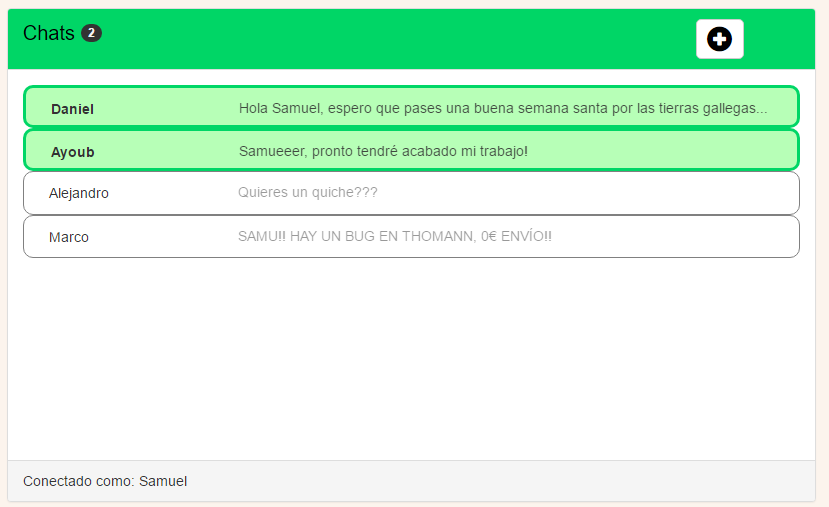
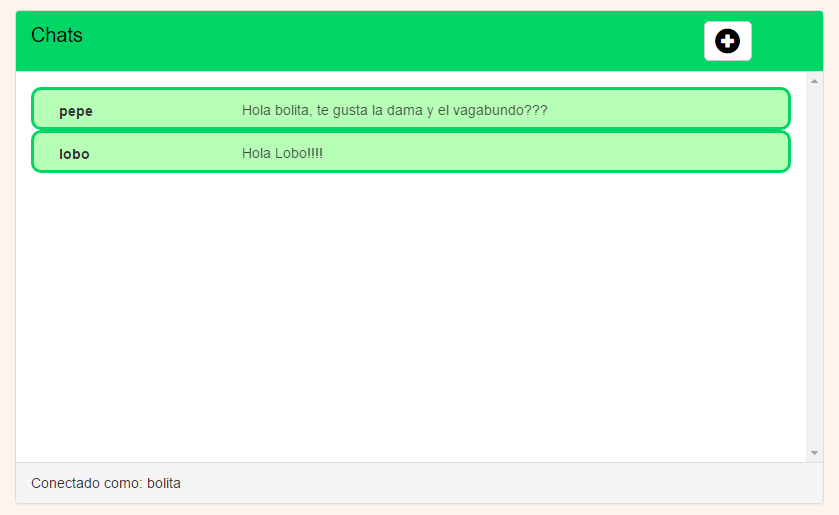
Tour actualizado y bbdd
algunos usuarios mas

diff --git a/public/tour.html b/public/tour.html
@@ -49,9 +49,9 @@
     <img class="img-responsive center-block tourindex" src="img/tour/index.png" alt="Generic placeholder image">
 
     <div class="acercatext">
-      <p class="acercap">Una vez logeados o dados de alta, nos encontramos en la página de nuestro perfil, donde podemos actualizar nuestro perfil. Mediante el navegador podremos desplazarnos a:</p>
+      <p class="acercap">Una vez logeados o dados de alta, nos encontramos en la página de nuestro perfil, te pedimos que subas una foto tuya y rellenes todos los datos de tu perfil. </p>
+      <p class="acercap">Mediante el navegador podremos desplazarnos a:</p>
       <p class="acercap"><strong>Huella</strong>, descubre los nuevos pretendientes en la pagina de MATCHES. </p>
-      <p class="acercap"><strong>Fotos y Videos</strong>, donde podras ver el contenido que has publicado.</p>
       <p class="acercap"><strong>Chats</strong>, habla mediante chats con tus pretendientes.</p>
       <p class="acercap"><strong>Perfil</strong>, accede a la información de tu cuenta.</p>
       <p class="acercap">Pulsa el botón <strong>Cerrar Sesión</strong> para salir de tu cuenta.</p>
@@ -60,6 +60,7 @@
     <img class="img-responsive center-block tourindex" src="img/tour/nav.png" alt="Generic placeholder image">
 
     <div class="acercatext">
+      <p class="acercap">Pincha en la huella para ir a la página principal.</p>
       <p class="acercap"><strong>LOS MATCHESSSS!</strong> Elige a tus pretendientes entre la comunidad Guaunder.</p>
     </div>
 
@@ -72,11 +73,11 @@
 
     <div class="row"></div>
 
-    <img class="img-responsive center-block tourindex" src="img/tour/fyv.png" alt="Generic placeholder image">
+    <!-- <img class="img-responsive center-block tourindex" src="img/tour/fyv.png" alt="Generic placeholder image">
 
     <div class="acercatext">
       <p class="acercap"><strong>Fotos y Videos</strong>, accede al contenido multimedia que has publicado y quieres compartir con los demás.</p>
-    </div>
+    </div> -->
 
     <img class="img-responsive center-block tourindex" src="img/tour/chats.png" alt="Generic placeholder image">
 
@@ -88,6 +89,14 @@
 
     <div class="acercatext">
       <p class="acercap"><strong>Perfil</strong>, muestra la información sobre tu perfil. Foto de perfil, nombre, edad, tus intereses y un mapa de tu zona.</p>
+      <p class="acercap">Arriba a la derecha, accedes a tus fotos</p>
+    </div>
+
+    <img class="img-responsive center-block reducir" id="tourindex" src="img/tour/fotos.png" alt="Generic placeholder image">
+
+    <div class="acercatext">
+      <p class="acercap"><strong>Tus fotos y videos</strong>, sube fotos y videos para que tu perfil sea interesante y puedan conocerte más tus pretendientes.</p>
+      <p class="acercap">Arriba a la derecha, accedes a tus fotos</p>
     </div>
 
     <div class="row"></div>

diff --git a/public/loginHome.html b/public/loginHome.html
@@ -29,7 +29,6 @@
           <div class="collapse navbar-collapse" id="navbarHome">
             <ul class="nav masthead-nav">
                 <li><a href="pagPrincipal.php"><img id="huella" title="Encuentra a tu pareja!" src="img/icono.png" alt="huella"></a></li>
-                <li><a class="enlaces" href="fotosyvideos.html">Fotos y Videos</a></li>
                 <li><a class="enlaces" href="chats.php">Chats</a></li>
                 <li><a class="enlaces" href="perfil_propio.php">Perfil</a></li>
                 <li><a class="enlaces" href="cerrar_sesion.php">Cerrar Sesión</a></li>

diff --git a/public/css/cssPrincipal.css b/public/css/cssPrincipal.css
@@ -1043,5 +1043,8 @@ h1{
   padding-right: 45px;
 }
 
+.reducir{
+  width: 1000px;
+}
 /*--------------------------------------------------------------------------------------*/
 /*--------------------------------------------------------------------------------------*/
